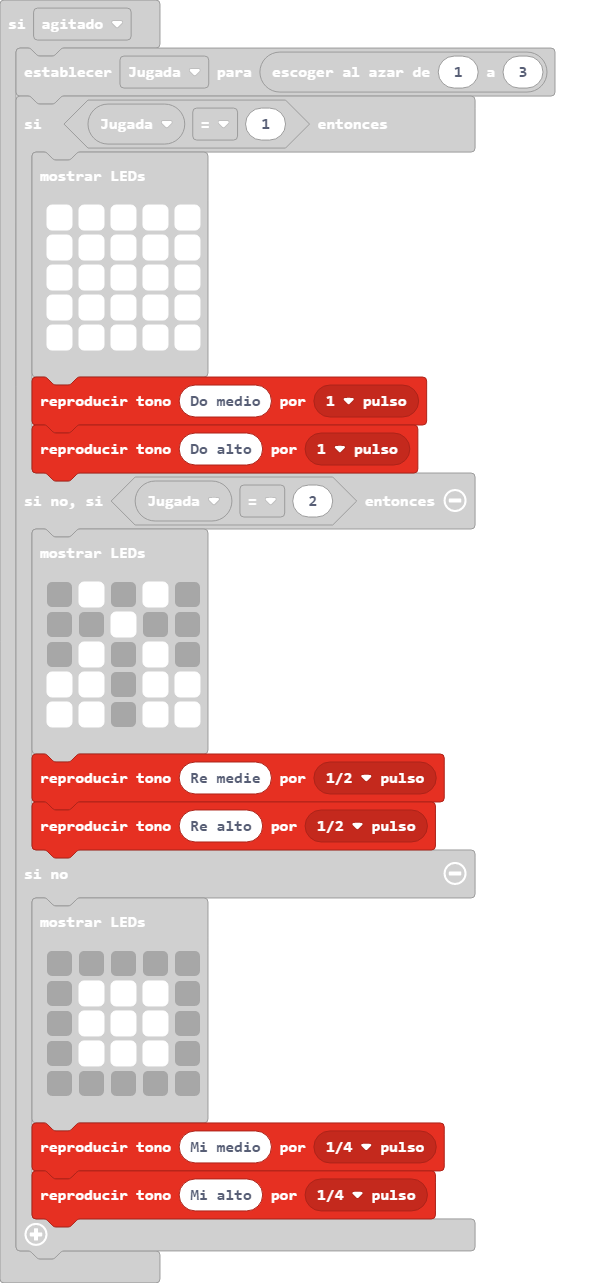
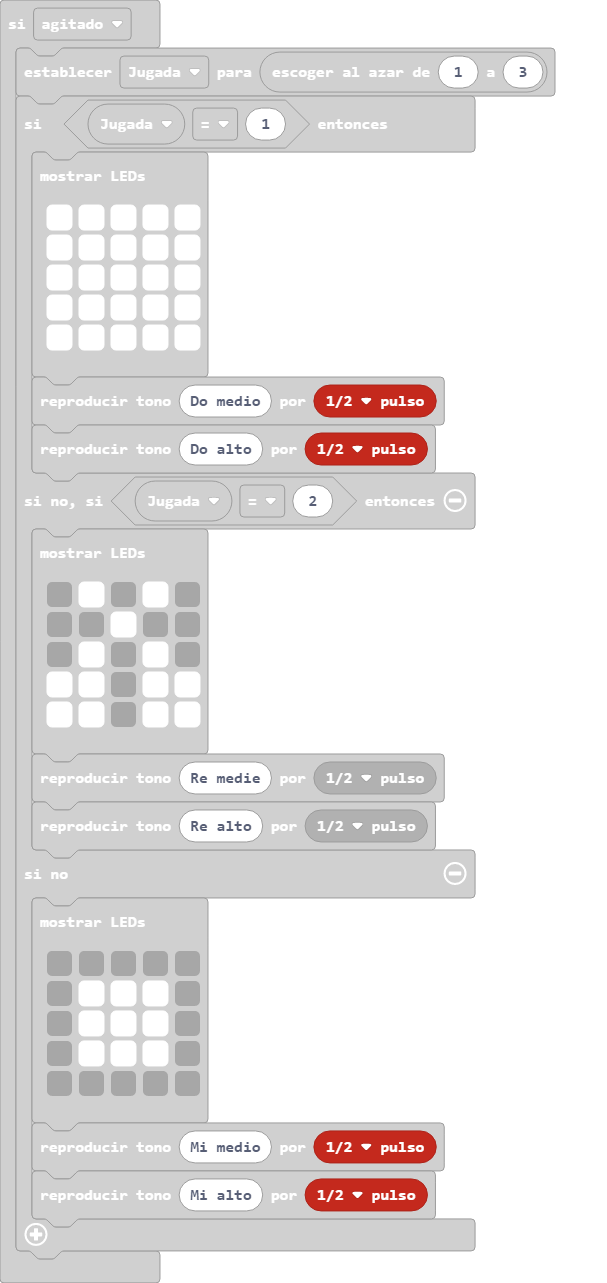
Actualizar main.blocks, main.ts

Changed region(s): [[0.0297, 0.5612, 0.7414, 0.6859], [0.0297, 0.873, 0.7414, 0.9665], [0.0297, 0.2806, 0.7414, 0.3741]]

diff --git a/main.ts b/main.ts
@@ -9,8 +9,8 @@ input.onGesture(Gesture.Shake, function () {
             # # # # #
             # # # # #
             `)
-        music.playTone(262, music.beat(BeatFraction.Whole))
-        music.playTone(523, music.beat(BeatFraction.Whole))
+        music.playTone(262, music.beat(BeatFraction.Half))
+        music.playTone(523, music.beat(BeatFraction.Half))
     } else if (Jugada == 2) {
         basic.showLeds(`
             . # . # .
@@ -29,7 +29,7 @@ input.onGesture(Gesture.Shake, function () {
             . # # # .
             . . . . .
             `)
-        music.playTone(330, music.beat(BeatFraction.Quarter))
-        music.playTone(659, music.beat(BeatFraction.Quarter))
+        music.playTone(330, music.beat(BeatFraction.Half))
+        music.playTone(659, music.beat(BeatFraction.Half))
     }
 })
